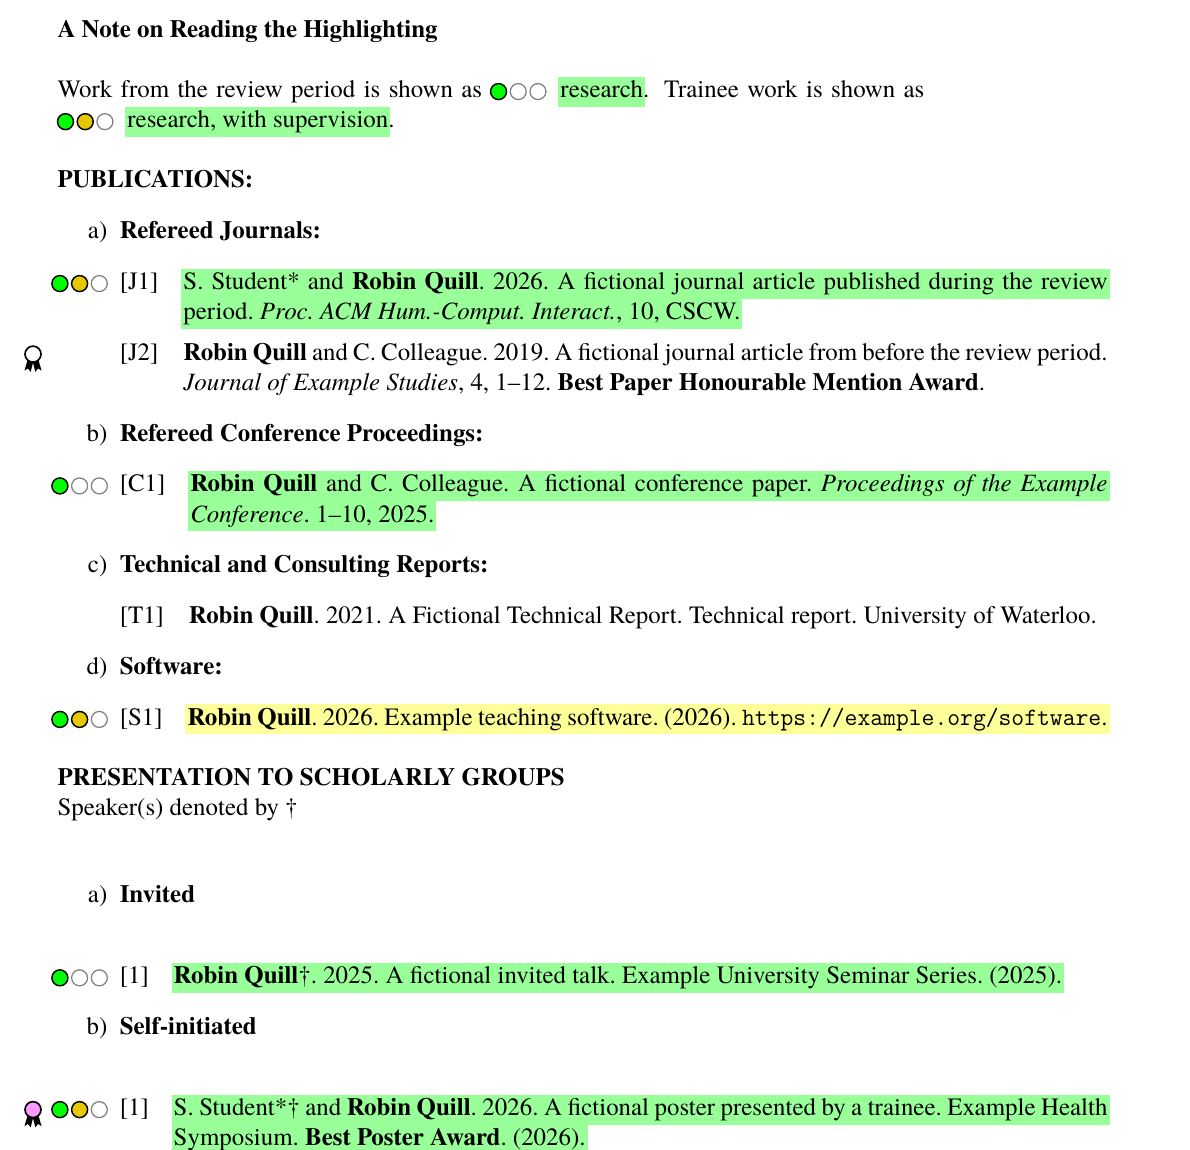
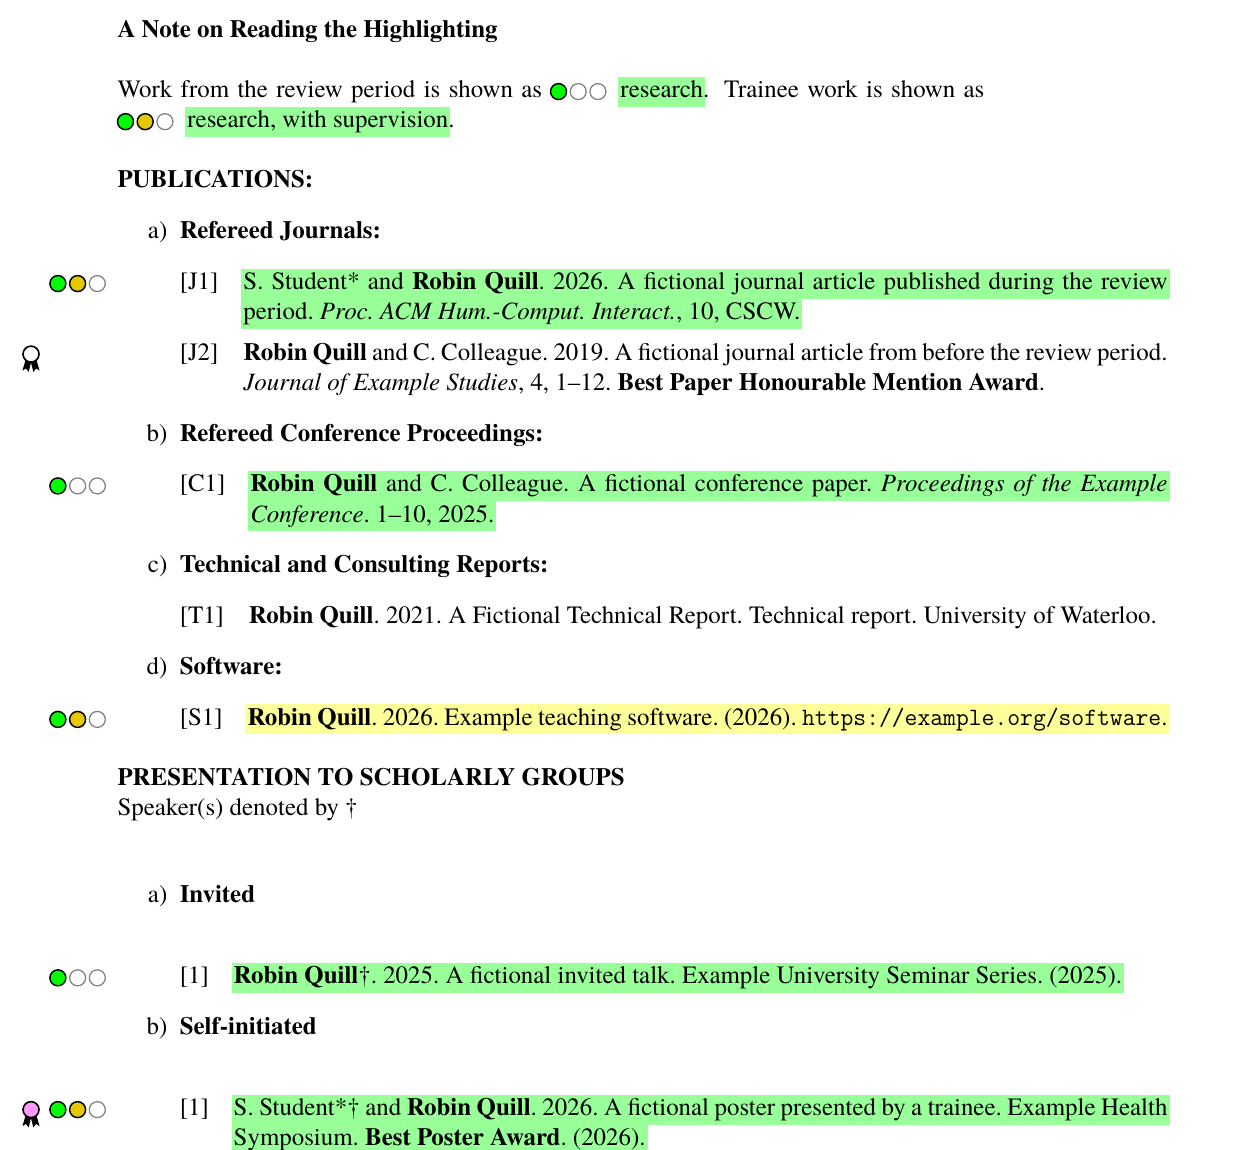
Dots style: put every marker in one column
Markers were placed relative to each entry's own context: left of a
numbered publication's [J1] label, left of each supervision degree label
(so PhD, MSc and MMath lists each had a column), 0.45in from the paper
edge for plain lists, and at the text block for table rows. Every marker
now sits right-aligned against the left edge of the text block, and the
edge rule keeps only the dots 0.25in clear, so a rosette no longer moves
its dots. \aprmarkleftof is kept as a no-op. README screenshots updated.

Claude-Session: https://claude.ai/code/session_01Lj65UZoXUh7XhhnasUm7cp

diff --git a/cv-records.tex b/cv-records.tex
@@ -216,7 +216,6 @@
 \newcommand\printsupervision[1]{%
   \begin{enumerate}
     \item[#1]%
-    \aprmarkleftof{#1}% APR dots style: markers left of the degree label
     \def\cv@degree{#1}%
     \begin{refcontext}[sorting=cvsupervision]%
       \printbibliography[type=supervision,check=cvdegree,env=cvdegree,heading=none]%

diff --git a/CHANGELOG.md b/CHANGELOG.md
@@ -5,6 +5,19 @@ fixes, major for anything renamed or removed (with what a CV must change).
 
 ## Unreleased
 
+A fix: nothing for a CV to change.
+
+- Dots style: every entry's marker now sits in one column, right-aligned
+  against the left edge of the text block. Before, numbered publications put
+  theirs left of the [J1] label, supervision lists left of each degree label
+  (so PhD, MSc and MMath each had their own column), plain lists 0.45in from
+  the paper edge, and table rows at the text block, so a page could show four
+  or five columns. The rule that keeps the marker off the paper edge now keeps
+  only the dots 0.25in clear, so a rosette doesn't push its dots out of the
+  column; at the Faculty's 0.75in margins the rosette sits about 0.1in from
+  the edge. `\aprmarkleftof` does nothing now (kept so a CV that calls it
+  still compiles). The README screenshots show the new column.
+
 ## v0.5.0 — 2026-11-20
 
 An addition: nothing for a CV to change.

diff --git a/README.md b/README.md
@@ -220,8 +220,8 @@ every CV that uses the template.
   `@committee`, `@award`, `@service` and `@course` with the fields in `uwhealthcv.dbx`, and `\me` inside a
   grant's `investigators`. Documented in `cv-records.tex`.
 - For other record types: `\aprtypecategory{type}{colour}`, `\aprsetentrycolour`, `\aprentrymark`
-  and `\aprmarkleftof{label}`
-  (`aprcv.sty`).
+  (`aprcv.sty`). `\aprmarkleftof{label}` is still accepted but does nothing
+  since v0.5.1: every marker sits in one column left of the text block.
 - biblatex categories: `aprteaching`, `aprservice`, `apraward`, `aprnone`,
   `aprinclude`, `apralsoteaching`, `apralsoresearch`, `apralsoservice`,
   `apralsoaward`.
